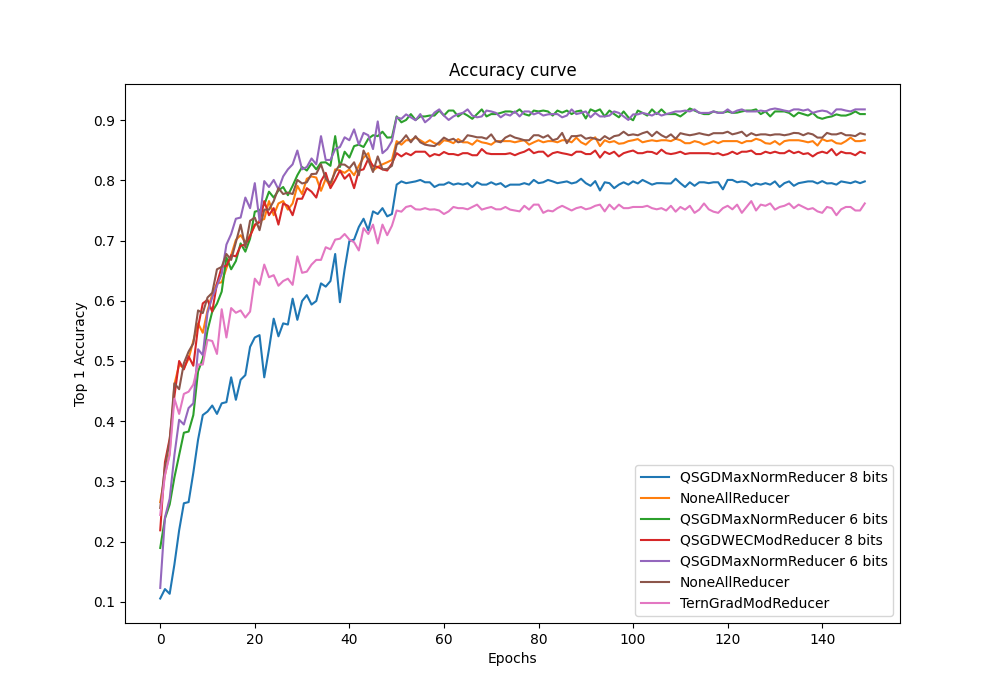
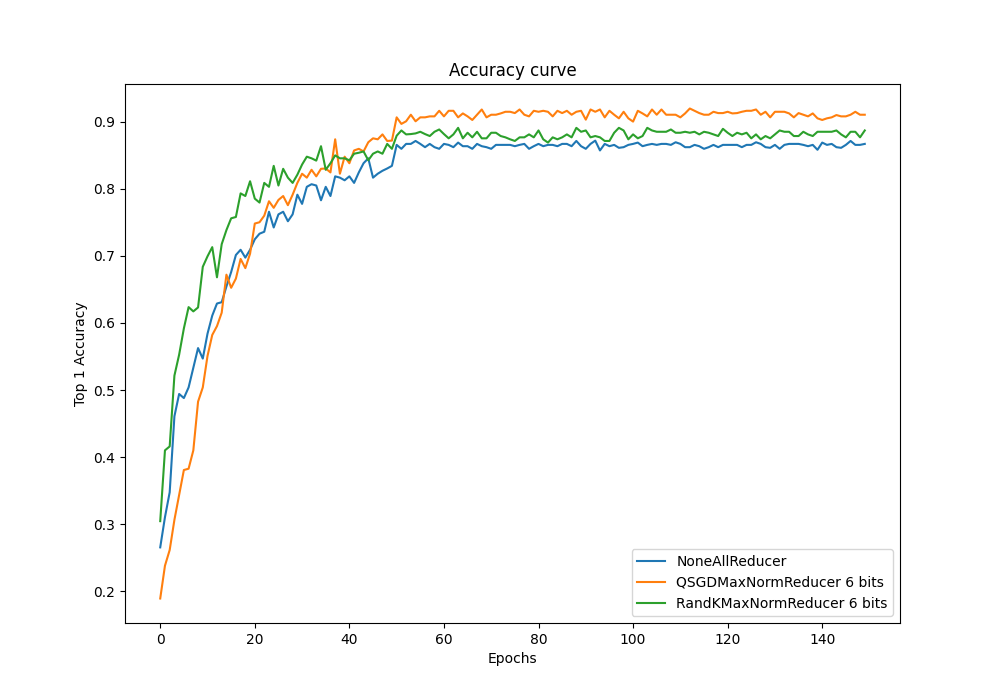
RandKCompressor Logs

diff --git a/compressors.py b/compressors.py
@@ -157,6 +157,11 @@ class QSGDWECCompressor:
         self._device = device
         self._quantization_level = quantization_level
 
+        if quantization_level < 8:
+            self._dtype = torch.int8
+        else:
+            self._dtype = torch.int32
+
     def compress(self, tensor):
         s = (1 << self._quantization_level) - 1
 
@@ -172,7 +177,7 @@ class QSGDWECCompressor:
 
         mask = torch.bernoulli(prob_array)
         xi_array = l_array_floored + mask
-        xi_array = xi_array.to(dtype=torch.int32)
+        xi_array = xi_array.to(dtype=self._dtype)
 
         norm = norm / s
 
@@ -192,6 +197,11 @@ class QSGDWECModCompressor:
         self._device = device
         self._quantization_level = quantization_level
 
+        if quantization_level < 8:
+            self._dtype = torch.int8
+        else:
+            self._dtype = torch.int32
+
     def compress(self, tensor):
         s = (1 << self._quantization_level) - 1
 
@@ -209,7 +219,7 @@ class QSGDWECModCompressor:
         xi_array = l_array_floored + mask
         xi_array = xi_array.to(dtype=torch.int32)
 
-        sign_xi_array = sign_array * xi_array
+        sign_xi_array = (sign_array * xi_array).to(dtype=self._dtype, device=self._device)
 
         norm = norm / s
 
@@ -280,6 +290,11 @@ class QSGDMaxNormCompressor:
         self._device = device
         self._quantization_level = quantization_level
 
+        if quantization_level < 8:
+            self._dtype = torch.int8
+        else:
+            self._dtype = torch.int32
+
     def compress(self, norm, tensor):
         s = (1 << self._quantization_level) - 1
 
@@ -294,12 +309,14 @@ class QSGDMaxNormCompressor:
         xi_array = l_array_floored + mask
         xi_array = xi_array.to(dtype=torch.int32)
 
-        sign_xi_array = sign_array * xi_array
+        sign_xi_array = (sign_array * xi_array).to(dtype=self._dtype, device=self._device)
 
         return sign_xi_array
 
     def decompress(self, norm, sign_xi_array):
-        return norm * sign_xi_array
+        s = (1 << self._quantization_level) - 1
+
+        return norm / s * sign_xi_array
 
 
 class QSGDBPCompressor:
@@ -404,6 +421,11 @@ class RandKMaxNormCompressor:
         self._device = device
         self._quantization_level = quantization_level
 
+        if quantization_level < 8:
+            self._dtype = torch.int8
+        else:
+            self._dtype = torch.int32
+
     def compress(self, norm, tensor):
         s = (1 << self._quantization_level) - 1
 
@@ -418,9 +440,11 @@ class RandKMaxNormCompressor:
         xi_array = l_array_floored + mask
         xi_array = xi_array.to(dtype=torch.int32)
 
-        sign_xi_array = sign_array * xi_array
+        sign_xi_array = (sign_array * xi_array).to(dtype=self._dtype, device=self._device)
 
         return sign_xi_array
 
     def decompress(self, norm, sign_xi_array):
-        return norm * sign_xi_array
+        s = (1 << self._quantization_level) - 1
+
+        return norm / s * sign_xi_array

diff --git a/utils.py b/utils.py
@@ -7,6 +7,7 @@ def plot_loss_curves(log_path):
     plt.figure(figsize=[10, 7])
 
     experiments = os.listdir(log_path)
+    experiments = ['2020_08_15_10_51_22_ResNet50', '2020_08_16_19_17_28_ResNet50', '2020_09_18_11_02_23_ResNet50']
     for experiment in experiments:
         reducer = None
         quant_level = None
@@ -41,6 +42,7 @@ def plot_top1_accuracy_curves(log_path):
     plt.figure(figsize=[10, 7])
 
     experiments = os.listdir(log_path)
+    experiments = ['2020_08_15_10_51_22_ResNet50', '2020_08_16_19_17_28_ResNet50', '2020_09_18_11_02_23_ResNet50']
     for experiment in experiments:
         reducer = None
         quant_level = None
@@ -75,6 +77,7 @@ def plot_top5_accuracy_curves(log_path):
     plt.figure(figsize=[10, 7])
 
     experiments = os.listdir(log_path)
+    experiments = ['2020_08_15_10_51_22_ResNet50', '2020_08_16_19_17_28_ResNet50', '2020_09_18_11_02_23_ResNet50']
     for experiment in experiments:
         reducer = None
         quant_level = None
@@ -109,6 +112,7 @@ def plot_time_per_batch_curves(log_path):
     plt.figure(figsize=[10, 7])
 
     experiments = os.listdir(log_path)
+    experiments = ['2020_08_15_10_51_22_ResNet50', '2020_08_16_19_17_28_ResNet50', '2020_09_18_11_02_23_ResNet50']
     for experiment in experiments:
         reducer = None
         quant_level = None

diff --git a/trainer.py b/trainer.py
@@ -23,7 +23,7 @@ config = dict(
     num_epochs=150,
     batch_size=128,
     architecture="ResNet50",
-    # architecture="LeNet",
+    K=50000,
     reducer="RandKMaxNormReducer",
     quantization_level=6,
     seed=42,
@@ -58,7 +58,8 @@ def train(local_rank, log_path):
     timer = Timer(verbosity_level=config["log_verbosity"])
 
     # reducer = globals()[config['reducer']](device, timer)
-    reducer = globals()[config['reducer']](device, timer, quantization_level=config['quantization_level'])
+    # reducer = globals()[config['reducer']](device, timer, quantization_level=config['quantization_level'])
+    reducer = globals()[config['reducer']](device, timer, K=config['K'], quantization_level=config['quantization_level'])
 
     lr = config['lr']
     bits_communicated = 0
@@ -116,7 +117,7 @@ def train(local_rank, log_path):
 
     if local_rank == 0:
         print(timer.summary())
-        logger.summary_writer(model, timer)
+        logger.summary_writer(model, timer, bits_communicated)
 
 
 if __name__ == '__main__':

diff --git a/logger.py b/logger.py
@@ -42,7 +42,7 @@ class Logger:
         self._log_dict['loss'][epoch] = epoch_metrics.values()['cross_entropy_loss']
         self._log_dict['time'][epoch] = (datetime.datetime.now() - self._start).total_seconds()
 
-    def summary_writer(self, model, timer):
+    def summary_writer(self, model, timer, bits_communicated):
         timer.save_summary(f'{self._log_path}/timer_summary.json')
 
         with open(f'{self._log_path}/success.txt', 'w') as file:
@@ -51,6 +51,8 @@ class Logger:
             file.write(f"Training parameters\n")
             list_of_strings = [f'{key} : {value}' for key, value in self._config.items()]
             [file.write(f'{string}\n') for string in list_of_strings]
+
+            file.write(f'Bits communicated: {bits_communicated}')
 
         np.save(f'{self._log_path}/log_dict.npy', self._log_dict)
         torch.save(model.state_dict(), f'{self._log_path}/model.pt')
